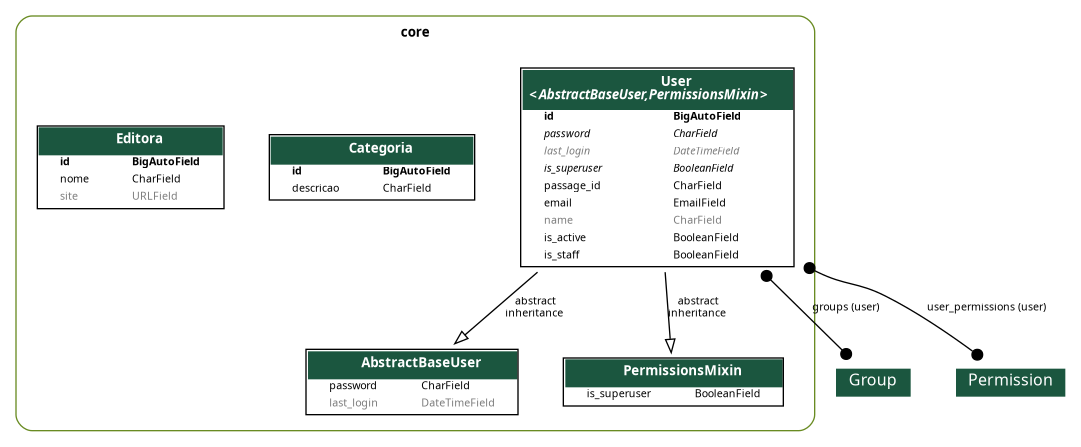
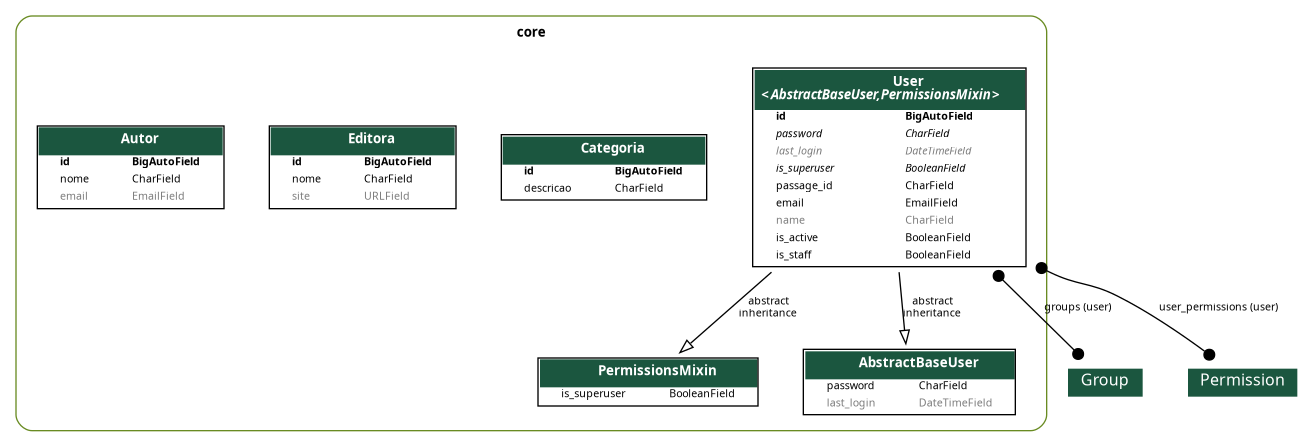
feat: criação da API para Autor

diff --git a/core/migrations/0007_autor.py b/core/migrations/0007_autor.py
@@ -1,0 +1,21 @@
+# Generated by Django 5.1.7 on 2026-03-02 18:53
+
+from django.db import migrations, models
+
+
+class Migration(migrations.Migration):
+
+    dependencies = [
+        ('core', '0006_editora'),
+    ]
+
+    operations = [
+        migrations.CreateModel(
+            name='Autor',
+            fields=[
+                ('id', models.BigAutoField(auto_created=True, primary_key=True, serialize=False, verbose_name='ID')),
+                ('nome', models.CharField(max_length=100)),
+                ('email', models.EmailField(blank=True, max_length=100, null=True)),
+            ],
+        ),
+    ]

diff --git a/app/urls.py b/app/urls.py
@@ -7,10 +7,11 @@ from drf_spectacular.views import (
 )
 from rest_framework.routers import DefaultRouter
 
-from core.views import CategoriaViewSet, EditoraViewSet, UserViewSet
+from core.views import CategoriaViewSet, EditoraViewSet, UserViewSet, AutorViewSet
 
 router = DefaultRouter()
 
+router.register(r'autores', AutorViewSet)
 router.register(r'categorias', CategoriaViewSet)
 router.register(r'editoras', EditoraViewSet)
 router.register(r'usuarios', UserViewSet, basename='usuarios')

diff --git a/core/views/editora.py b/core/views/editora.py
@@ -3,7 +3,6 @@ from rest_framework.viewsets import ModelViewSet
 from core.models import Editora
 from core.serializers import EditoraSerializer
 
-...
 class EditoraViewSet(ModelViewSet):
     queryset = Editora.objects.all()
     serializer_class = EditoraSerializer

diff --git a/core/views/autor.py b/core/views/autor.py
@@ -1,0 +1,8 @@
+from rest_framework.viewsets import ModelViewSet
+
+from core.models import Autor
+from core.serializers import AutorSerializer
+
+class AutorViewSet(ModelViewSet):
+    queryset = Autor.objects.all()
+    serializer_class = AutorSerializer

diff --git a/core/models/autor.py b/core/models/autor.py
@@ -1,0 +1,8 @@
+from django.db import models
+
+class Autor(models.Model):
+    nome = models.CharField(max_length=100)
+    email = models.EmailField(max_length=100, blank=True, null=True)
+
+    def __str__(self):
+        return self.nome

diff --git a/core/serializers/autor.py b/core/serializers/autor.py
@@ -1,0 +1,8 @@
+from rest_framework.serializers import ModelSerializer
+
+from core.models import Autor
+
+class AutorSerializer(ModelSerializer):
+    class Meta:
+        model = Autor
+        fields = '__all__'

diff --git a/core/serializers/__init__.py b/core/serializers/__init__.py
@@ -1,3 +1,4 @@
 from .user import UserSerializer
 from .categoria import CategoriaSerializer
 from .editora import EditoraSerializer
+from .autor import AutorSerializer

diff --git a/core/views/__init__.py b/core/views/__init__.py
@@ -1,3 +1,4 @@
 from .user import UserViewSet
 from .categoria import CategoriaViewSet
 from .editora import EditoraViewSet
+from .autor import AutorViewSet

diff --git a/core/models/__init__.py b/core/models/__init__.py
@@ -1,3 +1,4 @@
 from .user import User
 from .categoria import Categoria
 from .editora import Editora
+from .autor import Autor
